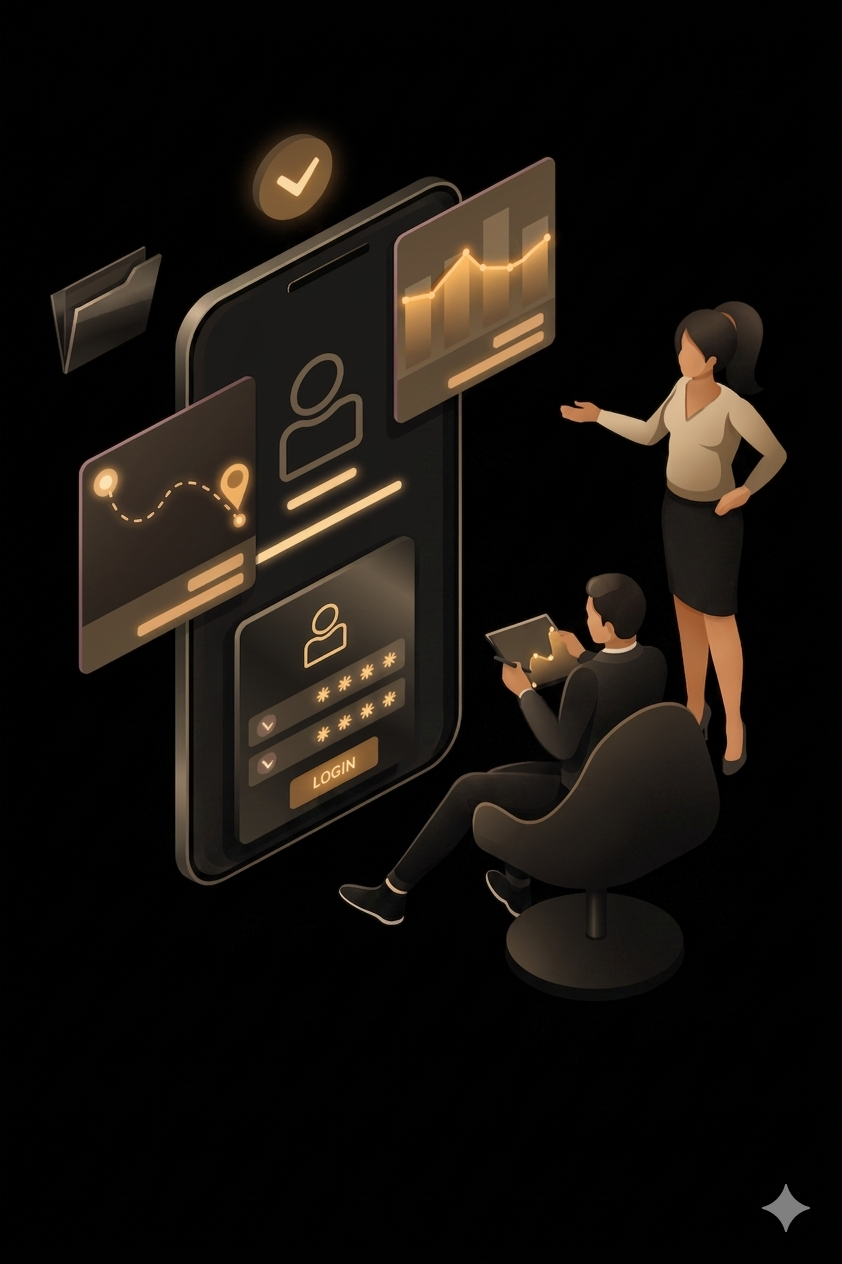
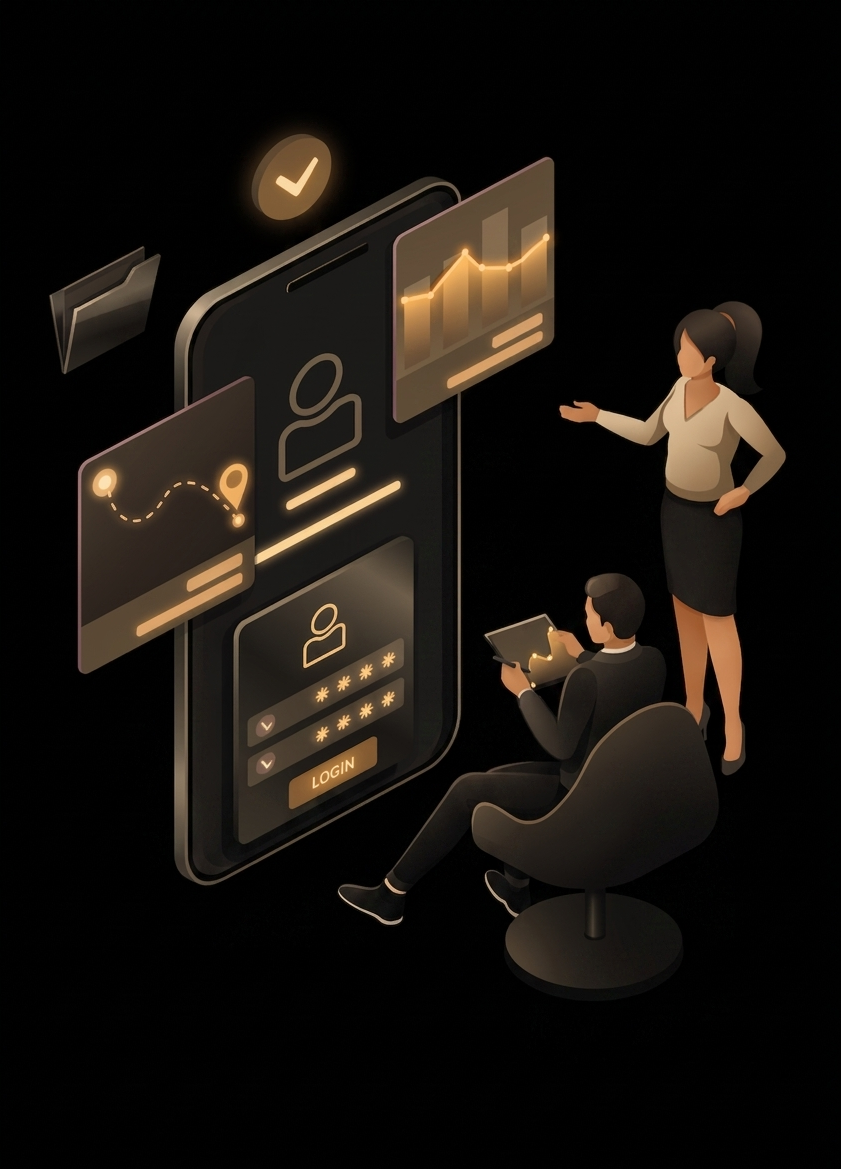
updated website

diff --git a/index.html b/index.html
@@ -8,8 +8,8 @@
   <meta name="description" content="Professional portfolio of Muhammed Yaseen A, IT Support Engineer, Desktop Support, and Service Desk Engineer.">
   <meta name="keywords" content="IT Support Engineer, Desktop Support, Service Desk, CCNA, Network Support">
 
-  <link href="assets/img/favicon.png" rel="icon">
-  <link href="assets/img/apple-touch-icon.png" rel="apple-touch-icon">
+  <link href="assets/img/yfavicon.png" rel="icon">
+  <link href="assets/img/yfavicon.png" rel="apple-touch-icon">
 
   <link href="https://fonts.googleapis.com" rel="preconnect">
   <link href="https://fonts.gstatic.com" rel="preconnect" crossorigin>
